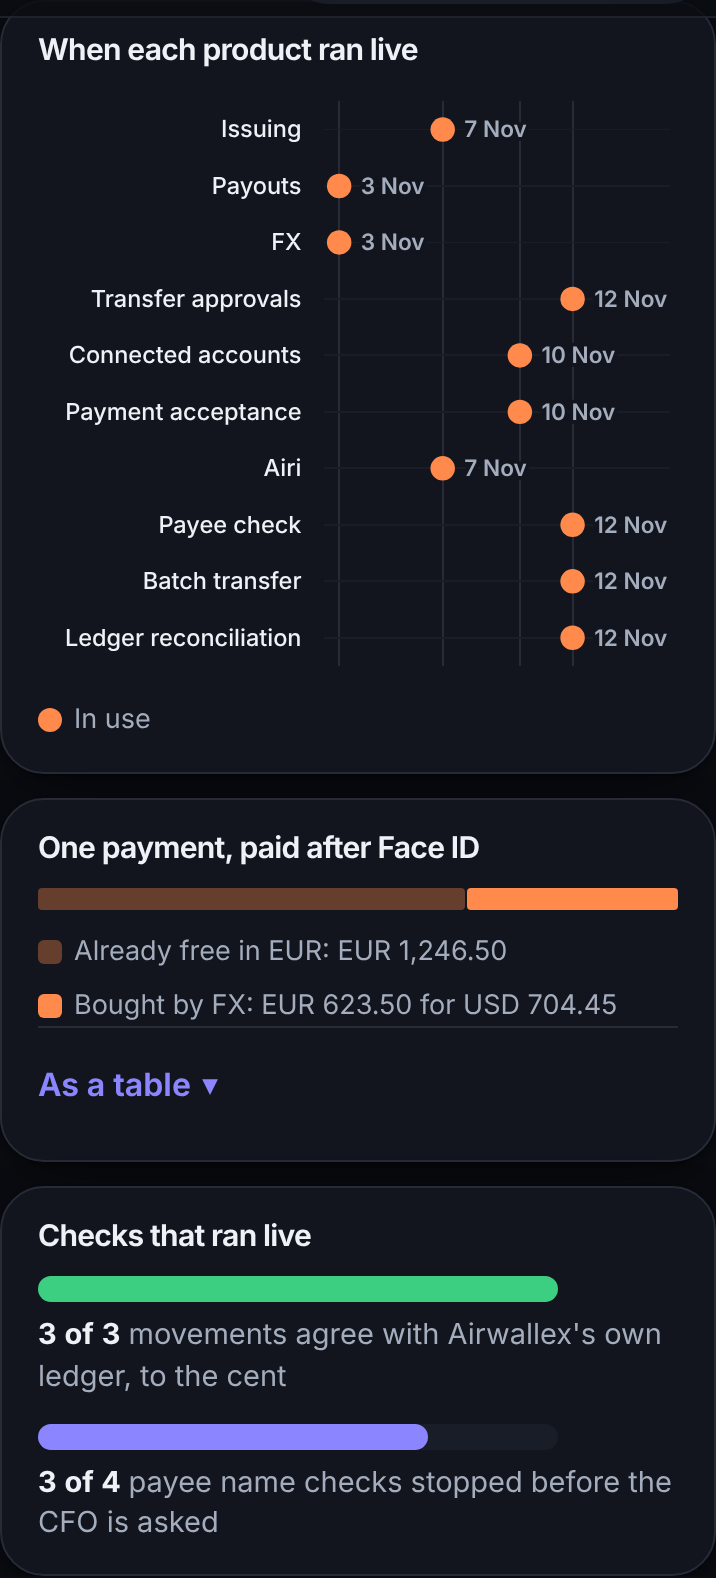
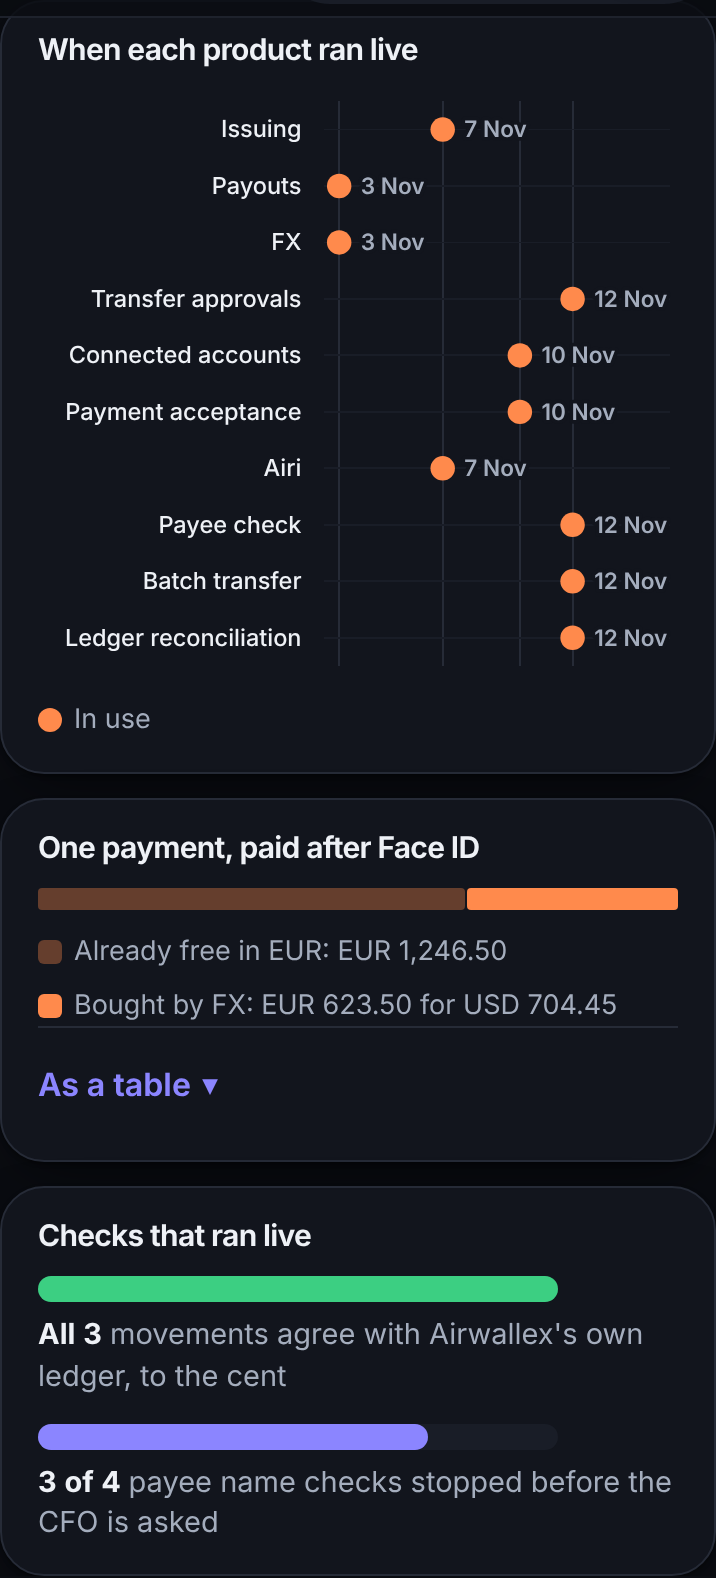
/airwallex: no N/N fraction: "All 3 movements agree", "All 7 checks pass", "All 5 checks pass", "All 3 cards match"
Standing rule (13 Nov): a count of a whole reads "All N" (countOf in src/redesign/ui.ts); an outcome count such as
"3 of 4 payee name checks stopped" stays. Used by the meter, the ledger tile, awx-1's and both Airi runs' checks and
the cards against the CFO policy. Pins updated in the page tests and pages.check; screenshots refreshed.

Claude-Session: https://claude.ai/code/session_017bq3BxeNez5ubVbvXAi5Bv

Changed region(s): [[0.0615, 0.8384, 0.9218, 0.8695]]

diff --git a/test/browser/pages.check.ts b/test/browser/pages.check.ts
@@ -834,7 +834,7 @@ for (const [w, h] of [[360, 780], [390, 844], [768, 1024], [1440, 900]] as const
       if (path === "/airwallex" && (!/The hash the CFO signed travels with the payment\./.test(pt) || (pt.match(/\b[0-9a-f]{64}\b/g) ?? []).length !== 2 || !/Match: the same hash/.test(pt))) fail(`/airwallex ${tag}: the CFO's hash and Airwallex's are not shown side by side, or do not match`);
       // awx-1 (7 Nov): the separate Airwallex-only run in its fold since 12 Nov (the Issuing tile leads to it), dated and
       // labelled, with its checks and every step and id.
-      if (path === "/airwallex" && (/awx-1: a separate run/.test(pt) || !/\d{1,2} November, awx-1: a separate run · Airwallex sandbox, test money/.test(open) || !/7 of 7 checks pass/.test(open) || !/LIMIT_EXCEEDED[\s\S]*MERCHANT_CATEGORY_NOT_ALLOWED[\s\S]*738a4263-6d6c-4de8-94a3-93da1c175fb4[\s\S]*4140dee2-6373-4eb4-a71f-bf69130f96a7/.test(open))) fail(`/airwallex ${tag}: awx-1 is not shown, dated and labelled, with its steps`);
+      if (path === "/airwallex" && (/awx-1: a separate run/.test(pt) || !/\d{1,2} November, awx-1: a separate run · Airwallex sandbox, test money/.test(open) || !/All 7 checks pass/.test(open) || !/LIMIT_EXCEEDED[\s\S]*MERCHANT_CATEGORY_NOT_ALLOWED[\s\S]*738a4263-6d6c-4de8-94a3-93da1c175fb4[\s\S]*4140dee2-6373-4eb4-a71f-bf69130f96a7/.test(open))) fail(`/airwallex ${tag}: awx-1 is not shown, dated and labelled, with its steps`);
       // The Airi run (7 Nov), in the owner's copy on /airwallex and on /visa: Visa Intelligent Commerce via
       // Airwallex's Airi, dated and labelled "Airwallex sandbox, test card, test money", the three outcome badges and the
       // 5 of 5 checks (a link to the run log's checks) in sight, every step and id in its "Details" fold; never an Airi
@@ -844,7 +844,7 @@ for (const [w, h] of [[360, 780], [390, 844], [768, 1024], [1440, 900]] as const
       const airiText = path === "/airwallex" || path === "/visa" ? open : pt;
       if (path === "/airwallex" && /Visa Intelligent Commerce via Airwallex's Airi: a live run/.test(pt)) fail(`/airwallex ${tag}: the Airi run's block is in sight, not in its fold`);
       if ((path === "/airwallex" || path === "/visa") && (!/Visa Intelligent Commerce via Airwallex's Airi: a live run \(7 Nov\)\s*A separate run · Airwallex sandbox, test card, test money/.test(airiText)
-        || !/✓ Within the limit[\s\S]*✓ Paid after Face ID[\s\S]*✕ Refused by Purser/.test(airiText) || !/5 of 5 checks pass/.test(airiText)
+        || !/✓ Within the limit[\s\S]*✓ Paid after Face ID[\s\S]*✕ Refused by Purser/.test(airiText) || !/All 5 checks pass/.test(airiText)
         || (await page.locator('#airi-run a[href$="2026-11-07-vic-1.md#checks-the-records-checks"]').count()) !== 1 || /int_sgpvzc9hjhnxvpblt2r/.test(pt)
         || !/single-use card credential from Airwallex's Airi wallet[\s\S]*int_sgpvzc9hjhnxvpblt2r[\s\S]*P-0002[\s\S]*int_sgpvzc9hjhnxvxc26ie[\s\S]*PURSER_MERCHANT_NOT_ALLOWED/.test(open)
         || /airi\.com\/|\b\d{13,19}\b/.test(open))) fail(`${path} ${tag}: the Airi run is not shown, dated and labelled, with its badges, checks and steps`);
@@ -1084,12 +1084,12 @@ for (const [w, h] of [[360, 780], [390, 844], [768, 1024], [1440, 900]] as const
       await page.locator("main details.sumd > summary").click();
       await page.locator("main details.deep > summary", { hasText: "Visa Intelligent Commerce via Airwallex's Airi" }).click();
       const airi = await page.locator("#airi-run").innerText().catch(() => "");
-      if (!/Visa Intelligent Commerce via Airwallex's Airi: a live run \(7 Nov\)\s*A separate run · Airwallex sandbox, test card, test money/.test(airi) || !/✓ Within the limit[\s\S]*✓ Paid after Face ID[\s\S]*✕ Refused by Purser[\s\S]*5 of 5 checks pass/.test(airi)
+      if (!/Visa Intelligent Commerce via Airwallex's Airi: a live run \(7 Nov\)\s*A separate run · Airwallex sandbox, test card, test money/.test(airi) || !/✓ Within the limit[\s\S]*✓ Paid after Face ID[\s\S]*✕ Refused by Purser[\s\S]*All 5 checks pass/.test(airi)
         || !(await page.locator("#airi-run").isVisible()) || (await page.locator('#airi-run a[href="airwallex#airi-run-steps"]').count()) !== 1) fail(`/proof ${tag}: the Airi run not shown when its line is opened, or no link to its steps`);
       await page.evaluate(() => document.querySelectorAll("details.deep").forEach((d) => { (d as HTMLDetailsElement).open = true; }));
       const rb = await page.locator("#airwallex-readback + .awrb").innerText().catch(() => "");
       if (!/awx-1: a separate run · Airwallex sandbox, test money/.test(await page.locator("#awx-1").innerText().catch(() => ""))) fail(`/proof ${tag}: awx-1 missing under Airwallex read back`);
-      if (!/The hash the CFO signed travels with the payment\./.test(rb) || (rb.match(/\b[0-9a-f]{64}\b/g) ?? []).length !== 2 || !/Match: the same hash/.test(rb) || !/3 of 3 cards match the CFO policy/.test(rb)) fail(`/proof ${tag}: Airwallex read back missing or not matching`);
+      if (!/The hash the CFO signed travels with the payment\./.test(rb) || (rb.match(/\b[0-9a-f]{64}\b/g) ?? []).length !== 2 || !/Match: the same hash/.test(rb) || !/All 3 cards match the CFO policy/.test(rb)) fail(`/proof ${tag}: Airwallex read back missing or not matching`);
     }
     // The strongest proof first (Max's last round, item 2; the jury, 12 Nov): each partner card shows its strongest
     // claim as its one link, right under its name; no TAP remark under the figures (TAP is on /visa only, since 12 Nov).

diff --git a/src/redesign/airwallexVisual.ts b/src/redesign/airwallexVisual.ts
@@ -17,7 +17,7 @@
 import { readFileSync } from "node:fs";
 import { AWX_RUN_FILE } from "./awxRun.js";
 import type { ProductTile } from "./airwallexProducts.js";
-import { esc, icon } from "./ui.js";
+import { countOf, esc, icon } from "./ui.js";
 
 const read = (file: string): string | null => { try { return readFileSync(new URL(`../../${file}`, import.meta.url), "utf8"); } catch { return null; } };
 const dayShort = (iso: string) => new Intl.DateTimeFormat("en-GB", { day: "numeric", month: "short", timeZone: "UTC" }).format(new Date(iso));
@@ -150,13 +150,13 @@ export interface Meter { done: number; of: number; words: string; tone: "ok" | "
 /** A meter: a thin bar, its count in words beside it. */
 export function meterHtml(m: Meter): string {
   const W = 200, H = 10, w = m.of ? Math.round((m.done / m.of) * W) : 0;
-  return `<div class="awm2"><svg viewBox="0 0 ${W} ${H}" aria-hidden="true"><rect class="bg" x="0" y="0" width="${W}" height="${H}" rx="5"/><rect class="${m.tone}" x="0" y="0" width="${Math.max(w, 0)}" height="${H}" rx="5"/></svg><p><b>${m.done} of ${m.of}</b> ${esc(m.words)}</p></div>`;
+  return `<div class="awm2"><svg viewBox="0 0 ${W} ${H}" aria-hidden="true"><rect class="bg" x="0" y="0" width="${W}" height="${H}" rx="5"/><rect class="${m.tone}" x="0" y="0" width="${Math.max(w, 0)}" height="${H}" rx="5"/></svg><p><b>${countOf(m.done, m.of)}</b> ${esc(m.words)}</p></div>`;
 }
 
 /** The two meters, from the tiles' values ("3 of 3", "3 of 4"), which the tiles read from their records; in use or not
  *  yet switched on alike, so a product that is switched on keeps its meter. */
 export function metersHtml(tiles: ProductTile[]): string {
-  const of = (t: ProductTile | undefined) => { const m = /^(\d+) of (\d+)$/.exec(t?.value ?? ""); return m ? { done: Number(m[1]), of: Number(m[2]) } : null; };
+  const of = (t: ProductTile | undefined) => { const v = t?.value ?? "", all = /^All (\d+)$/.exec(v), m = /^(\d+) of (\d+)$/.exec(v); return all ? { done: Number(all[1]), of: Number(all[1]) } : m ? { done: Number(m[1]), of: Number(m[2]) } : null; };
   const ledger = of(tiles.find((t) => t.key === "ledger")), payee = of(tiles.find((t) => t.key === "payee-check"));
   const out = [
     ...(ledger ? [meterHtml({ ...ledger, words: "movements agree with Airwallex's own ledger, to the cent", tone: "ok" })] : []),

diff --git a/src/redesign/vic2Run.ts b/src/redesign/vic2Run.ts
@@ -7,7 +7,7 @@
 
 import { existsSync, readFileSync } from "node:fs";
 import { REPO_BLOB } from "./metalStory.js";
-import { esc, icon } from "./ui.js";
+import { countOf, esc, icon } from "./ui.js";
 
 export const VIC2_RUN_FILE = "docs/demo/vic-2-run.json";
 export const VIC2_RUN_LOG = "docs/runs/2026-11-07-vic-2.md";
@@ -63,7 +63,7 @@ export function vic2Lines(rec: Vic2Record): Vic2Line[] {
 const checksUrl = `${REPO_BLOB}${VIC2_RUN_LOG}#checks`;
 
 /**
- * The block. Full (/airwallex): heading, label, the three outcomes, "7 of 7 checks pass", the checks in a fold.
+ * The block. Full (/airwallex): heading, label, the three outcomes, "All 7 checks pass", the checks in a fold.
  * fold: false (/visa, where nothing is folded above the TAP picture): the same without the fold, the run log linked.
  * short (/airwallex, /proof): heading and the checks, a link to the outcomes on /visa.
  */
@@ -73,7 +73,7 @@ export function vic2RunHtml(rec: Vic2Record | null, o: { short?: boolean; fold?:
   const ok = checks.filter(([, c]) => c.ok).length;
   const h = `<div class="card airi" id="${VIC2_RUN_ID}"><h3 class="airi-h">${icon("shield-check", 18)}${esc(`${VIC2_HEADING} (${day(rec.started_at)})`)}</h3>
 <p class="airi-label">${esc(VIC2_LABEL)}</p>`;
-  const link = `<a class="awm ok" href="${esc(checksUrl)}" target="_blank" rel="noopener">${icon("circle-check", 16)}${esc(`${ok} of ${checks.length} checks pass`)} ↗</a>`;
+  const link = `<a class="awm ok" href="${esc(checksUrl)}" target="_blank" rel="noopener">${icon("circle-check", 16)}${esc(`${countOf(ok, checks.length)} checks pass`)} ↗</a>`;
   // The text budgets of /airwallex and /proof (test/site-v4.test.ts) leave room for the heading and the checks only; the rest is a link away.
   if (o.short) return `<div class="card airi" id="${VIC2_RUN_ID}"><h3 class="airi-h">${icon("shield-check", 18)}${esc(`${VIC2_HEADING} (${day(rec.started_at)})`)}</h3>\n${link}\n<a class="open" href="visa#${VIC2_RUN_ID}">${esc("Details")} ${icon("arrow-right", 14)}</a></div>`;
   const out = `<ul class="airi-out">${vic2Lines(rec).map((l) => `<li class="${l.ok ? "ok" : "no"}"><span class="awm ${l.ok ? "ok" : "bad"}">${esc(l.badge)}</span> ${esc(l.text)}</li>`).join("")}</ul>`;

diff --git a/src/redesign/awxRun.ts b/src/redesign/awxRun.ts
@@ -10,7 +10,7 @@ import type { Awx1Record } from "../awx/scenario.js";
 import { moneyForPeople } from "../../worker/src/agentLine.js";
 import { REPO_BLOB } from "./metalStory.js";
 import { family } from "./run.js";
-import { esc, icon } from "./ui.js";
+import { countOf, esc, icon } from "./ui.js";
 
 export const AWX_RUN_FILE = "docs/demo/airwallex-run.json";
 export const AWX_RUN_LOG = "docs/runs/2026-11-07-awx-1.md";
@@ -81,7 +81,7 @@ const badge = (ok: boolean, text: string) => `<span class="awm ${ok ? "ok" : "ba
 export function awxRunHtml(s: AwxRunSummary | null): string {
   if (!s) return "";
   return `<div class="card" id="${AWX_RUN_ID}"><h3>${icon("credit-card", 18)}${esc(`${s.date}, ${s.run}: a separate run · ${AWX_RUN_LABEL}`)}</h3>
-${badge(s.checksOk === s.checksAll, `${s.checksOk} of ${s.checksAll} checks pass`)}
+${badge(s.checksOk === s.checksAll, `${countOf(s.checksOk, s.checksAll)} checks pass`)}
 <details class="fold" id="${AWX_RUN_STEPS_ID}"><summary>${esc("Every step and id")}</summary><ul class="awc">${s.lines.map((l) => `<li>${esc(l)}</li>`).join("")}</ul>
 <p class="src">${esc(s.source)} · <a class="pf" href="${esc(`${REPO_BLOB}${AWX_RUN_LOG}`)}" target="_blank" rel="noopener">run\u00a0log\u00a0↗</a></p></details></div>`;
 }
@@ -93,7 +93,7 @@ ${badge(s.checksOk === s.checksAll, `${s.checksOk} of ${s.checksAll} checks pass
 export function awxRunShortHtml(s: AwxRunSummary | null): string {
   if (!s) return "";
   return `<div class="card" id="${AWX_RUN_ID}"><h3>${icon("credit-card", 18)}${esc(`${s.date}, ${s.run}: a separate run · ${AWX_RUN_LABEL}`)}</h3>
-${badge(s.checksOk === s.checksAll, `${s.checksOk} of ${s.checksAll} checks pass`)}
+${badge(s.checksOk === s.checksAll, `${countOf(s.checksOk, s.checksAll)} checks pass`)}
 <p>${esc(s.short)}</p>
 <p class="src">${esc(s.source)}</p>
 <a class="open" href="airwallex#${AWX_RUN_STEPS_ID}">${esc("Every step and id")} ${icon("arrow-right", 14)}</a></div>`;

diff --git a/src/redesign/airiRun.ts b/src/redesign/airiRun.ts
@@ -20,7 +20,7 @@
 
 import { existsSync, readFileSync } from "node:fs";
 import { REPO_BLOB } from "./metalStory.js";
-import { esc, icon } from "./ui.js";
+import { countOf, esc, icon } from "./ui.js";
 
 export const AIRI_RUN_FILE = "docs/demo/airi-run.json";
 export const AIRI_RUN_LOG = "docs/runs/2026-11-07-vic-1.md";
@@ -200,10 +200,10 @@ const heading = (s: AiriRunSummary, h: "h2" | "h3") => `<${h} class="airi-h">${i
 <p class="airi-label">${esc(`A separate run · ${AIRI_RUN_LABEL}`)}</p>
 <p class="airi-sum">${esc(s.summary)}</p>`;
 const outcomes = (s: AiriRunSummary) => `<ul class="airi-out">${s.outcomes.map((o) => `<li class="${o.ok ? "ok" : "no"}"><span class="awm ${o.ok ? "ok" : "bad"}">${esc(o.badge)}</span> ${esc(o.text)}</li>`).join("")}</ul>`;
-/** "5 of 5 checks pass", a link to the run log's checks section (the five named there and in the fold). */
+/** "All 5 checks pass" (or "4 of 5"), a link to the run log's checks section (the five named there and in the fold). */
 const checksLink = (s: AiriRunSummary) => {
   const ok = s.checksOk === s.checksAll;
-  return `<a class="awm ${ok ? "ok" : "bad"}" href="${esc(AIRI_CHECKS_URL)}" target="_blank" rel="noopener">${icon(ok ? "circle-check" : "octagon-x", 16)}${esc(`${s.checksOk} of ${s.checksAll} checks pass`)} ↗</a>`;
+  return `<a class="awm ${ok ? "ok" : "bad"}" href="${esc(AIRI_CHECKS_URL)}" target="_blank" rel="noopener">${icon(ok ? "circle-check" : "octagon-x", 16)}${esc(`${countOf(s.checksOk, s.checksAll)} checks pass`)} ↗</a>`;
 };
 
 /** The block: heading, label, summary, the three outcomes, the checks; every check, step and id folded. */

diff --git a/src/redesign/airwallexProducts.ts b/src/redesign/airwallexProducts.ts
@@ -24,7 +24,7 @@ import type { Awx1Record } from "../awx/scenario.js";
 import { REPO_BLOB } from "./metalStory.js";
 import { liveRuns, type RunRow } from "./runs.js";
 import type { AgentRun, RunRecord } from "./run.js";
-import { esc, icon } from "./ui.js";
+import { countOf, esc, icon } from "./ui.js";
 import { VISUAL_CSS, visualsHtml } from "./airwallexVisual.js";
 
 // 13 Nov: the payee check, the batch transfer and the ledger reconciliation joined once the switch-on run showed them
@@ -446,7 +446,7 @@ export function ledgerTile(r: { audit: { ts: string; event: string; payload: { a
   const id = read0?.payload.items?.[0]?.id;
   if (!rec || rec.payload.checked === undefined || !id) return null;
   return {
-    key: "ledger", name: "Ledger reconciliation", value: `${rec.payload.agree} of ${rec.payload.checked}`,
+    key: "ledger", name: "Ledger reconciliation", value: countOf(Number(rec.payload.agree), Number(rec.payload.checked)),
     what: `movements agree with Airwallex's ledger to the cent.`, why: "Airwallex books each movement.",
     id, idLabel: "Airwallex financial transaction", href: `${REPO_BLOB}${FT_FILE.replace(/\.json$/, ".md")}`, iso: rec.ts, files: [FT_FILE],
   };

diff --git a/test/airwallex-readback.test.ts b/test/airwallex-readback.test.ts
@@ -139,11 +139,11 @@ describe("the pages", () => {
       expect(t).toContain(cards.file);
       expect(t).toMatch(/writ(ten|es) [^.]*from the CFO policy/);
     }
-    for (const html of [pages.proof!, pages.airwallex!]) expect(text(html)).toContain("3 of 3 cards match the CFO policy");
+    for (const html of [pages.proof!, pages.airwallex!]) expect(text(html)).toContain("All 3 cards match the CFO policy");
     // /airwallex (Max, 6 Nov): the hash block and one line at the top; every card's side by side in a collapsed fold.
     const controls = /<div class="card">((?:(?!<div class="card">)[\s\S])*?<details class="fold" id="controls">[\s\S]*?)<\/details><\/div>/.exec(pages.airwallex!)?.[1] ?? "";
     const fold = /<details class="fold" id="controls">[\s\S]*$/.exec(controls)?.[0] ?? "";
-    expect(text(controls.slice(0, controls.length - fold.length)).trim()).toBe("3 of 3 cards match the CFO policy");
+    expect(text(controls.slice(0, controls.length - fold.length)).trim()).toBe("All 3 cards match the CFO policy");
     expect((fold.match(/class="awcard"/g) ?? []).length).toBe(3);
     expect(fold).not.toMatch(/<details[^>]*\sopen/);
     const side = text(pages.airwallex!);

diff --git a/src/redesign/airwallexProof.ts b/src/redesign/airwallexProof.ts
@@ -13,7 +13,7 @@ import { CARD_ACTIVE_DAYS, MCC_WORDS } from "../config/policy.js";
 import { fromCents, toCents } from "../lib/money.js";
 import { cardControls } from "../policy/cards.js";
 import { cardRaiseOf, type RunRecord } from "./run.js";
-import { esc, icon } from "./ui.js";
+import { countOf, esc, icon } from "./ui.js";
 
 const RUNS = new URL("../../docs/runs/", import.meta.url);
 
@@ -175,7 +175,7 @@ ${badge(h.match, "Match: the same hash", "No match")}
 /** One line for all the cards: how many match the CFO policy on every control, counted from the rows. */
 export function cardsMatchBadge(rows: CardControlRow[]): string {
   const matched = rows.filter((r) => r.match).length;
-  return badge(matched === rows.length, `${matched} of ${rows.length} cards match the CFO policy`, `${rows.length - matched} of ${rows.length} cards differ from the CFO policy`);
+  return badge(matched === rows.length, `${countOf(matched, rows.length)} cards match the CFO policy`, `${rows.length - matched} of ${rows.length} cards differ from the CFO policy`);
 }
 
 /** /airwallex's fold of the cards, side by side with the CFO policy: Proof links here, and the page opens it on arrival. */

diff --git a/test/airi-run-page.test.ts b/test/airi-run-page.test.ts
@@ -49,7 +49,7 @@ describe("the Airi run on the site", () => {
       // In sight, in this order: the heading, the label, the summary, A, B, C with their badges, the checks.
       const order = [HEADING, `A separate run · ${AIRI_RUN_LABEL}`, SUMMARY, `${BADGES[0]} EUR ${buy("A").amount} (Purser's limit: EUR ${rec.policy.alone_max_eur}). ${A_SENTENCE}`,
         `${BADGES[1]} EUR ${buy("B").amount}, above the limit: Purser asked Airi only after the CFO's Face ID on the exact terms.`,
-        `${BADGES[2]} EUR ${buy("C").amount} at a merchant the CFO does not allow: refused before Airi was asked (0 Airi calls).`, "5 of 5 checks pass"].map((x) => ({ x, at: t.indexOf(x) }));
+        `${BADGES[2]} EUR ${buy("C").amount} at a merchant the CFO does not allow: refused before Airi was asked (0 Airi calls).`, "All 5 checks pass"].map((x) => ({ x, at: t.indexOf(x) }));
       for (const o of order) expect({ name, x: o.x, shown: o.at >= 0 }).toEqual({ name, x: o.x, shown: true });
       expect(order.map((o) => o.at)).toEqual([...order.map((o) => o.at)].sort((x, y) => x - y));
       // The checks link to the run log's checks section on GitHub, which lists all five.

diff --git a/test/vic2-run-page.test.ts b/test/vic2-run-page.test.ts
@@ -23,7 +23,7 @@ describe("the second Airi run on the site", () => {
     for (const p of ["airwallex", "proof"]) {
       // A control test, not a second Visa run (its heading since 12 Nov, jury panel).
       expect(text(block(pages[p]!)), p).toContain("Control test of Purser's own checks, not a Visa run (7 Nov)");
-      expect(text(block(pages[p]!)), p).toContain("7 of 7 checks pass");
+      expect(text(block(pages[p]!)), p).toContain("All 7 checks pass");
       expect(block(pages[p]!), p).toContain('href="visa#airi-run-2"');
     }
     expect(block(pages.visa!)).not.toContain("<details");
@@ -35,7 +35,7 @@ describe("the second Airi run on the site", () => {
       expect(t, p).toContain("EUR 190.00");
       expect(t, p).toContain("EUR 12.00");
       expect(t, p).toContain("refused before Airi was asked");
-      expect(t, p).toContain("7 of 7 checks pass");
+      expect(t, p).toContain("All 7 checks pass");
       expect(t, p).toContain("0 Airi and 0 Airwallex calls");
     }
     expect(block(pages.visa!)).toContain(VIC2_RUN_LOG);

diff --git a/src/redesign/ui.ts b/src/redesign/ui.ts
@@ -35,6 +35,8 @@ export function icon(name: string, size = 20): string {
 /** The icons a page's script draws, by name, as markup strings (built here, never from data). */
 export const iconSet = (names: string[]) => Object.fromEntries(names.map((n) => [n, icon(n, 16)]));
 
+/** A count of a whole, in words: "All 3" when every one, else "3 of 4" (standing rule, 13 Nov: no N/N fraction on a page). */
+export const countOf = (n: number, of: number): string => (n === of ? `All ${of}` : `${n} of ${of}`);
 export const esc = (s: string) => s.replace(/[&<>"]/g, (c) => ({ "&": "&amp;", "<": "&lt;", ">": "&gt;", '"': "&quot;" })[c]!);
 
 /**

diff --git a/test/awx-run-page.test.ts b/test/awx-run-page.test.ts
@@ -24,7 +24,7 @@ describe("awx-1 on the site", () => {
     for (const name of ["airwallex", "proof"]) {
       const t = text(block(pages[name]!));
       expect({ name, t }).toEqual({ name, t: expect.stringContaining(`7 November, awx-1: a separate run · ${AWX_RUN_LABEL}`) });
-      expect(t).toContain("7 of 7 checks pass");
+      expect(t).toContain("All 7 checks pass");
     }
     // On Proof, under the "Airwallex, read back" heading, short: no decline code on /proof (test/proof-first.test.ts),
     // a link to every step on /airwallex, whose fold opens on arrival.
